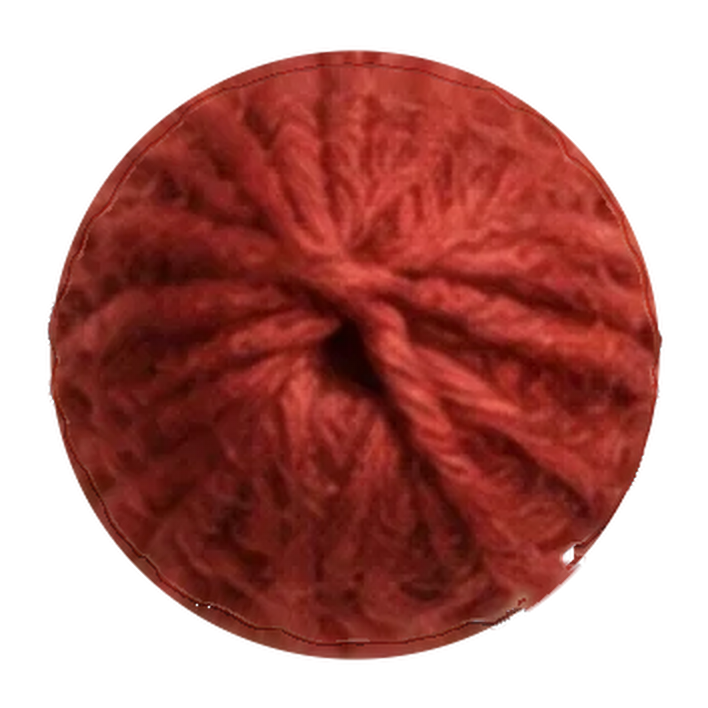
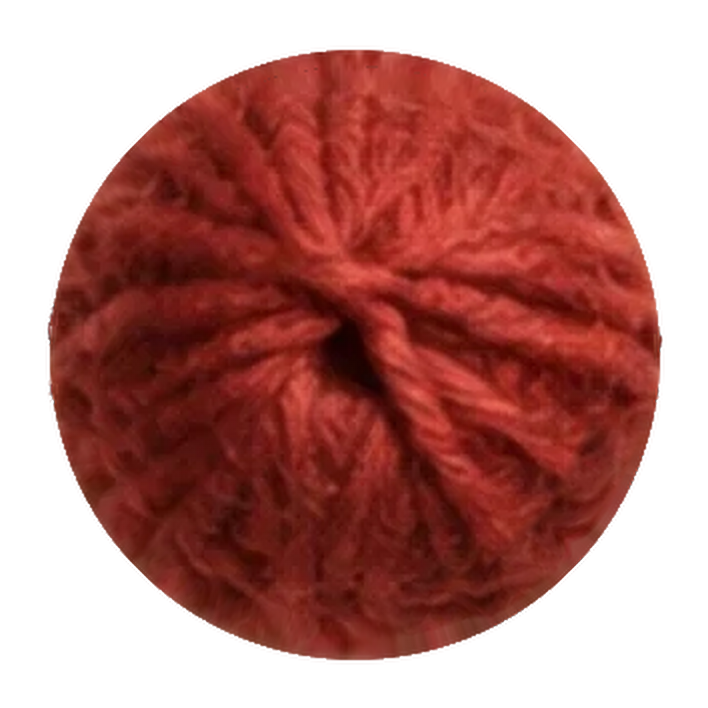
Matassa: niente piu' buco bianco; disco della palla tutto pieno di lana, settore dell'uscita rifatto con la lana dello spicchio accanto, via i resti della radice del filo (#30)
Claude-Session: https://claude.ai/code/session_01K8S9kDcMmADtdHMs7poTsz

diff --git a/assets/js/matassa.js b/assets/js/matassa.js
@@ -50,7 +50,7 @@
     var nome = verticale && verticale.matches ? 'stretto' : 'largo', T = TAGLI[nome];
     if (scena && scena.nome === nome) return;
     Promise.all([carica(DIR + nome + '-base.webp?v=10'), carica(DIR + nome + '-filo.webp?v=10'), carica(DIR + nome + '-tempo.png?v=10'),
-                 carica(DIR + nome + '-palla.png?v=2')]).then(function (r) {
+                 carica(DIR + nome + '-palla.png?v=3')]).then(function (r) {
       var fp = pixel(r[1], T.W, T.H), tp = pixel(r[2], T.W, T.H);
       cBase.width = cFilo.width = T.W; cBase.height = cFilo.height = T.H;
       var out = cFilo.getContext('2d').createImageData(T.W, T.H), od = out.data;

diff --git a/index.html b/index.html
@@ -596,7 +596,7 @@
 </footer>
 
 <!-- prima la matassa: se c'e', site.js non disegna il filo colorato dell'apertura -->
-<script src="assets/js/matassa.js?v=20261003z" defer></script>
+<script src="assets/js/matassa.js?v=20261004a" defer></script>
 <script src="assets/js/site.js?v=20261003q" defer></script>
 <script src="assets/js/filo-laterale.js?v=4" defer></script>
 </body>
